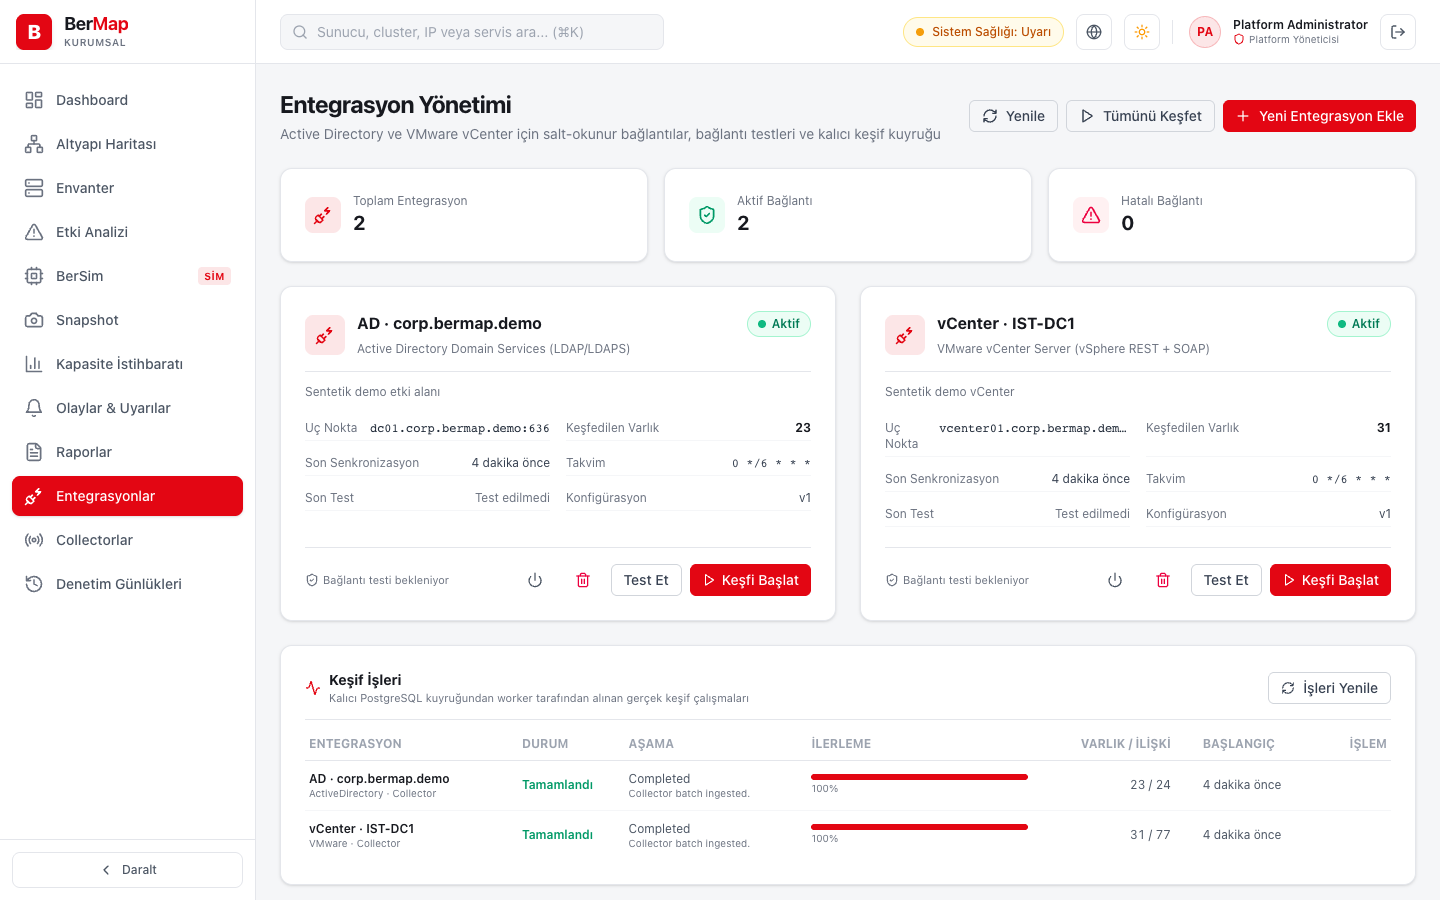
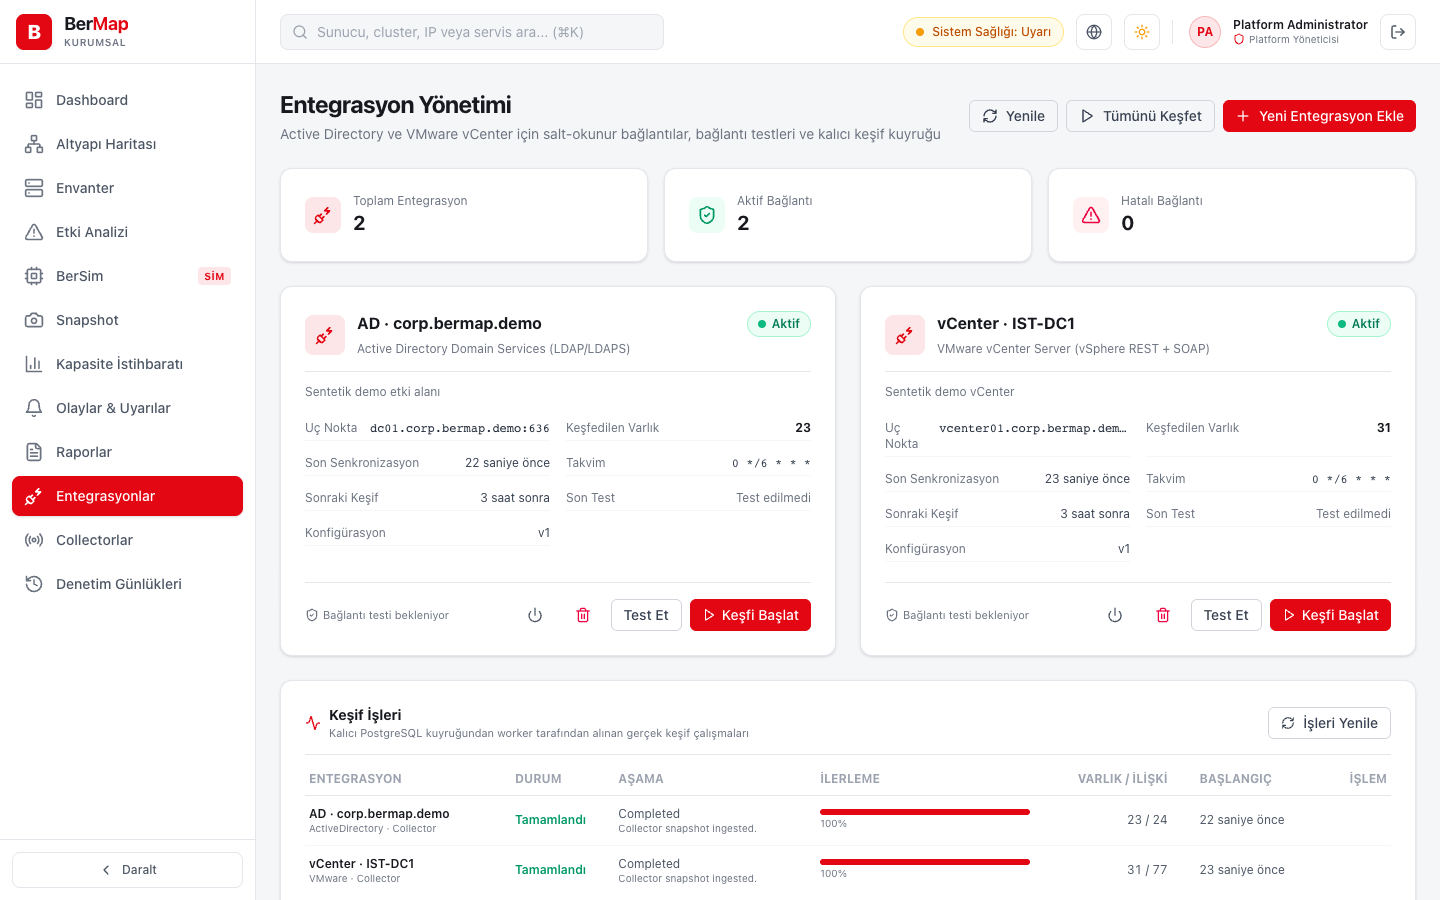
Use 'simulation' instead of 'digital twin' wording
The console already calls the engine BerSim; the product page, README and
architecture docs used 'dijital ikiz' / 'Digital Twin' / 'BerTwin'. All now say
simulation / BerSim. Product page screenshots refreshed (integration cards show
the next scheduled discovery).

diff --git a/site/index.html b/site/index.html
@@ -3,12 +3,12 @@
 <head>
 <meta charset="utf-8">
 <meta name="viewport" content="width=device-width, initial-scale=1">
-<meta name="description" content="BerMap: kurum içi altyapı keşfi, bağımlılık haritası, etki analizi ve dijital ikiz simülasyonu.">
+<meta name="description" content="BerMap: kurum içi altyapı keşfi, bağımlılık haritası, etki analizi ve değişiklik simülasyonu.">
 <meta name="color-scheme" content="light dark">
-<meta property="og:title" content="BerMap — Altyapı İstihbaratı ve Dijital İkiz">
+<meta property="og:title" content="BerMap — Altyapı İstihbaratı ve Simülasyon">
 <meta property="og:description" content="Active Directory ve vCenter'ı salt okunur keşfedin, varlıkları tek grafta uzlaştırın, bir değişikliğin etkisini üretime dokunmadan simüle edin.">
 <meta property="og:image" content="https://berkayatag.github.io/BerMap/assets/dashboard.png">
-<title>BerMap — Altyapı İstihbaratı ve Dijital İkiz</title>
+<title>BerMap — Altyapı İstihbaratı ve Simülasyon</title>
 <link rel="icon" type="image/svg+xml" href="assets/bermap.svg">
 <link rel="stylesheet" href="style.css?v=0.1.0">
 <script>
@@ -24,7 +24,7 @@
 <body>
 <a class="skip" href="#main">İçeriğe geç</a>
 <header class="top">
-  <a class="brand" href="#"><img src="assets/bermap.svg" alt="" width="36" height="36"><span>BerMap<small>Infrastructure Intelligence &amp; Digital Twin</small></span></a>
+  <a class="brand" href="#"><img src="assets/bermap.svg" alt="" width="36" height="36"><span>BerMap<small>Infrastructure Intelligence &amp; Simulation</small></span></a>
   <nav aria-label="Ana menü">
     <a href="#ozellikler">Özellikler</a>
     <a href="#ekranlar">Ekranlar</a>
@@ -42,7 +42,7 @@
   <section class="hero">
     <div class="hero-copy">
       <p class="eyebrow">Sürüm 0.2 · Önizleme · <span lang="en">Windows Server</span> ve <span lang="en">Linux</span></p>
-      <h1>Altyapınızı haritalayın.<br><em>Değişikliği önce ikizde deneyin.</em></h1>
+      <h1>Altyapınızı haritalayın.<br><em>Değişikliği önce simülasyonda deneyin.</em></h1>
       <p class="lead">BerMap, Active Directory ve vCenter'ı salt okunur keşfeder, sunucuları, sanal makineleri ve bağımlılıkları tek bir grafta uzlaştırır. Bir host çökerse neyin etkileneceğini üretime dokunmadan görürsünüz.</p>
       <div class="actions">
         <a class="button" href="https://github.com/BerkayAtag/BerMap">Kaynak koda git <span aria-hidden="true">↗</span></a>
@@ -74,7 +74,7 @@
       <article><span class="num">02 / Uzlaştırma</span><h3>Tek varlık, çok kaynak</h3><p>Bir sunucu AD'de bilgisayar, vCenter'da sanal makine olarak görünür. SID, BIOS UUID ve FQDN ile tek düğümde birleşir; yalnız ada dayanan eşleşmeler otomatik birleştirilmez, incelemeye düşer.</p></article>
       <article><span class="num">03 / Harita</span><h3>Bağımlılık grafı</h3><p>Datacenter, cluster, host, VM, datastore, ağ ve uygulama ilişkileri etkileşimli haritada. Eski (stale) kayıtlar silinmez, geçmiş bağlam için işaretlenir.</p></article>
       <article><span class="num">04 / Etki</span><h3>Patlama yarıçapı</h3><p>Bir düğüm seçin; ona bağlı uygulamaları, veritabanlarını ve servisleri derinlik ve güven düzeyiyle görün. Değişiklik toplantısına kanıtla gelin.</p></article>
-      <article><span class="num">05 / BerTwin</span><h3>Dijital ikiz simülasyonu</h3><p>Host arızası, datastore kaybı ve ağ bölünmesi senaryoları deterministik motorla hesaplanır; cluster'da failover için CPU ve bellek payı kalıyor mu, risk puanı ne, görürsünüz.</p></article>
+      <article><span class="num">05 / BerSim</span><h3>Değişiklik simülasyonu</h3><p>Host arızası, datastore kaybı ve ağ bölünmesi senaryoları deterministik motorla hesaplanır; cluster'da failover için CPU ve bellek payı kalıyor mu, risk puanı ne, görürsünüz.</p></article>
       <article><span class="num">06 / Denetim</span><h3>Snapshot ve iz kaydı</h3><p>Grafın değişmez, hash'li anlık görüntülerini alın ve karşılaştırın. Giriş, entegrasyon ve keşif işlemlerinin her biri kullanıcı adıyla denetim kaydı bırakır.</p></article>
     </div>
   </section>
@@ -115,7 +115,7 @@
       <strong class="arrow">salt okunur →</strong>
       <div class="central"><span>Kurum sunucusu</span><h3>BerMap API + keşif işçisi</h3><p>Uzlaştırma · Graf · Simülasyon · Denetim</p><div class="services"><span>PostgreSQL</span><span>.NET 10</span><span>Şifreli kasa</span></div></div>
       <strong class="arrow">← HTTPS</strong>
-      <div><span>Operatör</span><h3>Web konsolu</h3><p>Yerel hesap ve roller<br>Harita ve etki analizi<br>BerTwin simülasyonu</p></div>
+      <div><span>Operatör</span><h3>Web konsolu</h3><p>Yerel hesap ve roller<br>Harita ve etki analizi<br>BerSim simülasyonu</p></div>
     </div>
     <p class="note">Collector yalnız dışarı yönlü bağlantı kurar ve kayıt token'ıyla kimlik doğrular; sunucuya ulaşamadığında verileri yerel kuyrukta tutar. GitHub Pages yalnız bu tanıtım sayfasını sunar; konsol ve envanter verileri GitHub'da çalışmaz.</p>
   </section>

diff --git a/docs/architecture/01-system-overview.md b/docs/architecture/01-system-overview.md
@@ -1,6 +1,6 @@
 # 01 — System Overview
 
-> **BerMap — Enterprise Infrastructure Intelligence & Digital Twin Platform**
+> **BerMap — Enterprise Infrastructure Intelligence & Simulation Platform**
 >
 > *"Discover. Map. Analyze. Simulate. Predict."*
 
@@ -8,9 +8,9 @@
 
 ## 1. Product Description
 
-BerMap is an on-premises, air-gapped enterprise platform that automatically discovers IT infrastructure, builds a unified dependency graph, and provides a deterministic Digital Twin simulation engine. It enables infrastructure teams to understand the full topology of their environment—physical hosts, virtual machines, applications, databases, network devices, and their interconnections—and to answer **"what happens if…?"** questions *before* making changes.
+BerMap is an on-premises, air-gapped enterprise platform that automatically discovers IT infrastructure, builds a unified dependency graph, and provides a deterministic what-if simulation engine. It enables infrastructure teams to understand the full topology of their environment—physical hosts, virtual machines, applications, databases, network devices, and their interconnections—and to answer **"what happens if…?"** questions *before* making changes.
 
-BerMap and **BerTwin** (the simulation engine) are a **single integrated product**. Simulation is not a bolt-on module; it is a core capability that operates on the same dependency graph built by discovery.
+BerMap and **BerSim** (the simulation engine) are a **single integrated product**. Simulation is not a bolt-on module; it is a core capability that operates on the same dependency graph built by discovery.
 
 ### Core Capabilities
 
@@ -19,7 +19,7 @@ BerMap and **BerTwin** (the simulation engine) are a **single integrated product
 | **Discovery** | Agentless and collector-based discovery of infrastructure via integration adapters (AD, vCenter, Zabbix, SCCM, SQL Server, etc.) |
 | **Dependency Graph** | Typed node-edge graph model representing all infrastructure entities and their relationships |
 | **Impact Analysis** | Traverse the dependency graph to determine the blast radius of any component failure |
-| **Digital Twin (BerTwin)** | Snapshot-based deterministic simulation engine — model failures, migrations, and capacity changes before execution |
+| **Simulation (BerSim)** | Snapshot-based deterministic simulation engine — model failures, migrations, and capacity changes before execution |
 | **Capacity Intelligence** | Track resource utilization trends, forecast exhaustion, and plan capacity |
 | **Event Correlation** | Correlate monitoring events across infrastructure layers to surface root causes |
 | **Reporting** | Export topology maps, impact reports, simulation results, and compliance data |
@@ -154,7 +154,7 @@ graph TB
 ## 6. Design Principles
 
 1. **Offline-First** — Every feature must work without internet access. No CDN, no telemetry, no external API calls.
-2. **Deterministic Simulation** — BerTwin simulation results are reproducible given the same snapshot and scenario. AI interprets results but never replaces the engine.
+2. **Deterministic Simulation** — BerSim simulation results are reproducible given the same snapshot and scenario. AI interprets results but never replaces the engine.
 3. **Adapter Isolation** — A failure in one integration adapter must not affect discovery from other adapters.
 4. **Schema Extensibility** — JSONB metadata columns allow any integration to store arbitrary properties without schema changes.
 5. **Least Privilege** — RBAC enforced at API layer; collectors authenticate with scoped certificates; database credentials are encrypted at rest.

diff --git a/README.md b/README.md
@@ -1,4 +1,4 @@
-# BerMap — Enterprise Infrastructure Intelligence & Digital Twin Platform
+# BerMap — Enterprise Infrastructure Intelligence & Simulation Platform
 
 > **"Discover. Map. Analyze. Simulate. Predict."**  
 > *Fully On-Premises | Air-Gapped | Preview (0.1)*
@@ -9,9 +9,9 @@
 
 ## 1. What is BerMap?
 
-**BerMap** is an enterprise-grade infrastructure discovery, dependency mapping, blast-radius impact analysis, and Digital Twin simulation platform designed from the ground up for strictly on-premises, air-gapped corporate environments (banking, telecommunications, healthcare, defense, and public utilities).
+**BerMap** is an enterprise-grade infrastructure discovery, dependency mapping, blast-radius impact analysis, and what-if simulation platform designed from the ground up for strictly on-premises, air-gapped corporate environments (banking, telecommunications, healthcare, defense, and public utilities).
 
-BerMap automatically connects to enterprise infrastructure systems (Active Directory, VMware vCenter, Zabbix, Microsoft SCCM/MECM, SQL Server, and Network devices), reconciles physical and virtual assets into a unified graph data model, visualizes complex dependencies in real time, and allows systems engineers to **simulate changes and failures before touching production** via the integrated **Simulation Studio (BerTwin)**.
+BerMap automatically connects to enterprise infrastructure systems (Active Directory, VMware vCenter, Zabbix, Microsoft SCCM/MECM, SQL Server, and Network devices), reconciles physical and virtual assets into a unified graph data model, visualizes complex dependencies in real time, and allows systems engineers to **simulate changes and failures before touching production** via the integrated **Simulation Studio (BerSim)**.
 
 ---
 
@@ -46,7 +46,7 @@ BerMap/
 │   ├── BerMap.Contracts/        # Shared DTOs, integration interfaces, collector protocol
 │   ├── BerMap.Worker/           # Background discovery & synchronization worker
 │   ├── BerMap.Collector/        # Standalone, outbound-only collection agent
-│   ├── BerMap.Simulation/       # Deterministic Digital Twin simulation engine (BerTwin)
+│   ├── BerMap.Simulation/       # Deterministic what-if simulation engine (BerSim)
 │   ├── BerMap.Integrations/     # Integration adapter implementations
 │   │   ├── ActiveDirectory/     # LDAP/LDAPS directory discovery adapter
 │   │   └── VMware/              # vSphere REST/SOAP hypervisor adapter

diff --git a/docs/architecture/12-development-plan.md b/docs/architecture/12-development-plan.md
@@ -1,6 +1,6 @@
 # 12 — Sprint-Based Development Plan
 
-> **BerMap — Enterprise Infrastructure Intelligence & Digital Twin Platform**  
+> **BerMap — Enterprise Infrastructure Intelligence & Simulation Platform**  
 > *"Discover. Map. Analyze. Simulate. Predict."*
 
 ---
@@ -21,7 +21,7 @@ gantt
     Phase 3 Deep Infrastructure Discovery:        p3, 2027-01-10, 2027-02-20
     Phase 4 Advanced Dependency Mapping :         p4, 2027-02-21, 2027-03-20
     section Simulation & Intelligence
-    Phase 5 Digital Twin & BerTwin Engine:        p5, 2027-03-21, 2027-04-17
+    Phase 5 Simulation & BerSim Engine:        p5, 2027-03-21, 2027-04-17
     Phase 6 Enterprise Integrations (SCCM/ZBX):  p6, 2027-04-18, 2027-05-29
     Phase 7 Local AI Intelligence (Ollama):       p7, 2027-05-30, 2027-06-26
     section Hardening
@@ -80,7 +80,7 @@ gantt
   - Visual blast radius highlighting on React Flow canvas with impact category classification.
   - Deliverables: Select any server or switch and instantly view affected business applications.
 
-### Phase 5: Digital Twin & Simulation Studio (BerTwin) (Sprints 10–11)
+### Phase 5: Simulation Studio (BerSim) (Sprints 10–11)
 - **Sprint 10: Deterministic Simulation Engine**
   - Implement snapshot cloning into in-memory simulation workspace.
   - Deterministic failure modeling: ESXi host outage, Datastore loss, Network link cut.

diff --git a/CONTRIBUTING.md b/CONTRIBUTING.md
@@ -9,7 +9,7 @@ Thank you for contributing to the **BerMap** platform.
    - `BerMap.Domain` must remain free of framework dependencies.
    - Modules must not reach directly into another module's database tables. All cross-module communication flows through `BerMap.Application` or `BerMap.Contracts`.
 3. **Read-Only Safety**: Integration adapters and discovery modules must strictly adhere to read-only semantics. Write-back or mutating operations against client infrastructure are strictly forbidden.
-4. **Deterministic Simulation**: All algorithms inside `BerMap.Simulation` (BerTwin) must be deterministic and testable.
+4. **Deterministic Simulation**: All algorithms inside `BerMap.Simulation` (BerSim) must be deterministic and testable.
 5. **Design System Adherence**: All frontend views must use design tokens defined in `src/index.css` and verify compatibility with both Light and Dark themes.
 6. **Testing**: All business logic must be accompanied by comprehensive unit tests.
 

diff --git a/docs/adr/ADR-003-postgresql-primary-database.md b/docs/adr/ADR-003-postgresql-primary-database.md
@@ -4,7 +4,7 @@
 Accepted
 
 ## Context
-BerMap requires persistent storage for enterprise inventory, users, roles, audit trails, and configuration, while also needing graph traversal capabilities for dependency mapping, blast-radius impact analysis, and Digital Twin simulations.
+BerMap requires persistent storage for enterprise inventory, users, roles, audit trails, and configuration, while also needing graph traversal capabilities for dependency mapping, blast-radius impact analysis, and what-if simulations.
 
 Introducing a specialized graph database (e.g., Neo4j) or dedicated cache (e.g., Redis) or search engine (e.g., Elasticsearch) in the first release would drastically increase deployment friction, memory footprint, licensing costs, and operational failure surface in air-gapped on-premises datacenters.
 

diff --git a/docs/architecture/11-mvp-scope.md b/docs/architecture/11-mvp-scope.md
@@ -1,6 +1,6 @@
 # 11 — MVP Scope (Phase 1 & Phase 2 Foundation)
 
-> **BerMap — Enterprise Infrastructure Intelligence & Digital Twin Platform**  
+> **BerMap — Enterprise Infrastructure Intelligence & Simulation Platform**  
 > *"Discover. Map. Analyze. Simulate. Predict."*
 
 ---
@@ -49,7 +49,7 @@ The MVP (Minimum Viable Product) establishes the production foundation of BerMap
   - Cross-source identity reconciliation using FQDN, BIOS UUID, and MAC address rules.
   - Ingestion into PostgreSQL typed node/edge graph model.
 
-### 2.4 Simulation Studio Prototype (BerTwin)
+### 2.4 Simulation Studio Prototype (BerSim)
 - **What-If Host Failure Simulation**:
   - Selecting an ESXi host to simulate failure.
   - Calculating direct blast radius: impacted VMs, databases, and hosted application services.

diff --git a/docs/architecture/10-ui-design-system.md b/docs/architecture/10-ui-design-system.md
@@ -176,7 +176,7 @@ Base unit: **4px**
 | 3 | **Infrastructure** | `Server` | `/infrastructure` | Entity inventory browser with filters |
 | 4 | **Dependencies** | `GitFork` | `/dependencies` | Dependency graph explorer |
 | 5 | **Impact Analysis** | `Zap` | `/impact` | Blast radius calculator |
-| 6 | **Simulation Studio** | `FlaskConical` | `/simulations` | BerTwin simulation workspace |
+| 6 | **Simulation Studio** | `FlaskConical` | `/simulations` | BerSim simulation workspace |
 | 7 | **Capacity** | `BarChart3` | `/capacity` | Capacity metrics and forecasting |
 | 8 | **Integrations** | `Plug` | `/integrations` | Integration adapter management |
 | 9 | **Collectors** | `Radio` | `/collectors` | Collector status and management |

diff --git a/docs/architecture/08-simulation-engine.md b/docs/architecture/08-simulation-engine.md
@@ -1,4 +1,4 @@
-# 08 — Simulation Engine (BerTwin)
+# 08 — Simulation Engine (BerSim)
 
 > **"Simulate Before You Change"**
 
@@ -6,7 +6,7 @@
 
 ## 1. Overview
 
-The BerTwin Simulation Engine is BerMap's Digital Twin capability. It enables infrastructure teams to model **what-if scenarios** against a frozen snapshot of the dependency graph and compute deterministic impact analysis — before any real change is made.
+The BerSim Simulation Engine is BerMap's what-if simulation capability. It enables infrastructure teams to model **what-if scenarios** against a frozen snapshot of the dependency graph and compute deterministic impact analysis — before any real change is made.
 
 ### Key Properties
 

diff --git a/docs/architecture/13-installation-upgrade.md b/docs/architecture/13-installation-upgrade.md
@@ -1,6 +1,6 @@
 # 13 — Installation, Upgrade & Rollback Architecture
 
-> **BerMap — Enterprise Infrastructure Intelligence & Digital Twin Platform**  
+> **BerMap — Enterprise Infrastructure Intelligence & Simulation Platform**  
 > *"Discover. Map. Analyze. Simulate. Predict."*
 
 ---

diff --git a/docs/architecture/14-risks-and-dependencies.md b/docs/architecture/14-risks-and-dependencies.md
@@ -1,6 +1,6 @@
 # 14 — Critical Risks, Dependencies & Mitigations
 
-> **BerMap — Enterprise Infrastructure Intelligence & Digital Twin Platform**  
+> **BerMap — Enterprise Infrastructure Intelligence & Simulation Platform**  
 > *"Discover. Map. Analyze. Simulate. Predict."*
 
 ---
